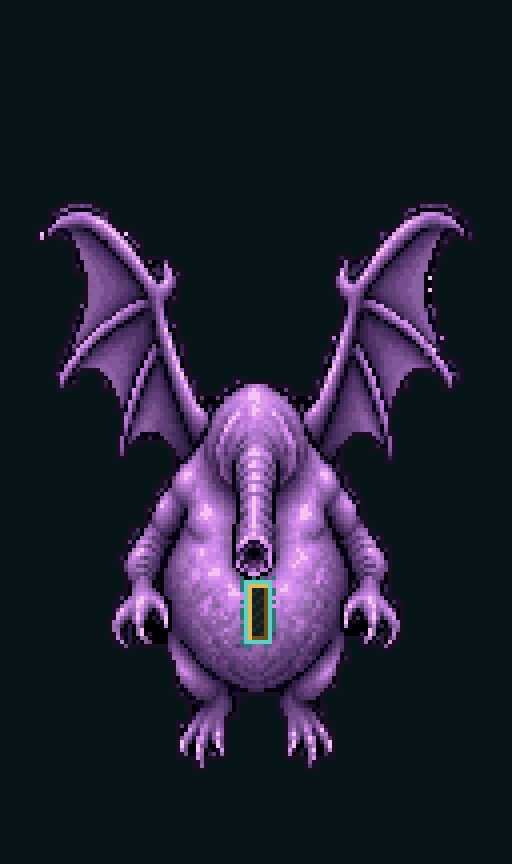
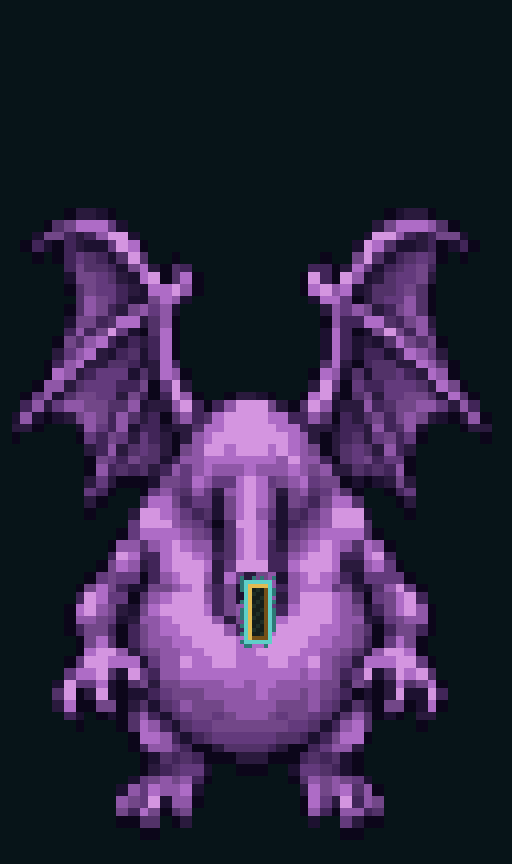
Rework Starvamp as deliberate low-color pixel art

diff --git a/tools/build_starvamp_sheets.py b/tools/build_starvamp_sheets.py
@@ -1,8 +1,7 @@
 """Build Starvamp's slow bat wingbeat and shared-card cast sheets."""
 
-from collections import deque
 from pathlib import Path
-from PIL import Image, ImageDraw, ImageFilter
+from PIL import Image
 
 
 ROOT = Path(__file__).resolve().parents[1]
@@ -10,53 +9,35 @@ PIXELS = ROOT / "art/pixel/enemies_px"
 SOURCE = PIXELS / "source/starvamp"
 W, H, TOP, FRAMES, FIRE = 128, 168, 48, 15, 10
 INK = (25, 14, 34, 255)
+SOURCE_GRID = SOURCE / "starvamp_pixel_poses.png"
+POSE_CROPS = (
+    (0, 0, 548, 805),
+    (548, 0, 1095, 805),
+    (0, 805, 548, 1437),
+    (548, 805, 1095, 1437),
+)
 
 
-def cutout(image: Image.Image) -> Image.Image:
-    """Remove the generated black backdrop from all separated body parts."""
-    rgb = image.convert("RGB")
-    mask = Image.new("L", (W, H))
-    for y in range(H):
-        for x in range(W):
-            if max(rgb.getpixel((x, y))) >= 73:
-                mask.putpixel((x, y), 255)
-    # Keep wings, feet and tube mouth even where dark joints separate them.
-    # Close small gaps between membranes and their dark ribs.
-    mask = mask.filter(ImageFilter.MaxFilter(5)).filter(ImageFilter.MinFilter(5))
-    outside = {(x, y) for x in range(W) for y in (0, H - 1)}
-    outside.update((x, y) for y in range(H) for x in (0, W - 1))
-    seen = set(outside)
-    queue = deque(outside)
-    while queue:
-        x, y = queue.popleft()
-        for nx, ny in ((x - 1, y), (x + 1, y),
-                       (x, y - 1), (x, y + 1)):
-            if (0 <= nx < W and 0 <= ny < H and (nx, ny) not in seen
-                    and mask.getpixel((nx, ny)) == 0):
-                seen.add((nx, ny))
-                queue.append((nx, ny))
-    for y in range(H):
-        for x in range(W):
-            if (x, y) not in seen:
-                mask.putpixel((x, y), 255)
-    bordered = mask.filter(ImageFilter.MaxFilter(3))
-    result = rgb.convert("RGBA")
-    result.putalpha(bordered)
-    for y in range(H):
-        for x in range(W):
-            if bordered.getpixel((x, y)) and not mask.getpixel((x, y)):
-                result.putpixel((x, y), INK)
-    return result
-
-
-def native(name: str, height_scale: float = 1.0,
-           top_shift: int = 0) -> Image.Image:
-    original = Image.open(SOURCE / name).convert("RGB")
-    scaled_h = round(H * height_scale)
-    scaled = original.resize((112, scaled_h), Image.Resampling.NEAREST)
-    aligned = Image.new("RGB", (W, H), (0, 0, 0))
-    aligned.paste(scaled, (8, top_shift))
-    return cutout(aligned)
+def native(grid: Image.Image, crop: tuple[int, int, int, int]) -> Image.Image:
+    """Reduce a complete pose to a 48x63 drawing grid."""
+    panel = grid.crop(crop)
+    alpha = panel.getchannel("A").point(lambda value: 255 if value >= 128 else 0)
+    bounds = alpha.getbbox()
+    if bounds is None:
+        raise ValueError(f"Empty Starvamp pose: {crop}")
+    panel = panel.crop(bounds)
+    scale = min(45 / panel.width, 59 / panel.height)
+    width, height = round(panel.width * scale), round(panel.height * scale)
+    matte = Image.new("RGB", panel.size, INK[:3])
+    matte.paste(panel.convert("RGB"), mask=panel.getchannel("A"))
+    color = matte.resize((width, height), Image.Resampling.LANCZOS)
+    shape = panel.getchannel("A").resize((width, height), Image.Resampling.LANCZOS)
+    shape = shape.point(lambda value: 255 if value >= 120 else 0)
+    sprite = color.convert("RGBA")
+    sprite.putalpha(shape)
+    tiny = Image.new("RGBA", (48, 63))
+    tiny.alpha_composite(sprite, ((48 - width) // 2, 63 - height - 2))
+    return tiny
 
 
 def palette_for(images: list[Image.Image]) -> Image.Image:
@@ -66,7 +47,7 @@ def palette_for(images: list[Image.Image]) -> Image.Image:
                        in image.get_flattened_data() if a)
     samples = Image.new("RGB", (len(visible), 1))
     samples.putdata(visible)
-    return samples.quantize(colors=36, method=Image.Quantize.MEDIANCUT)
+    return samples.quantize(colors=10, method=Image.Quantize.MEDIANCUT)
 
 
 def palette_map(image: Image.Image, palette: Image.Image) -> Image.Image:
@@ -93,15 +74,14 @@ def effect(frame: int, cards: Image.Image) -> Image.Image:
 
 
 def main() -> None:
-    # The high-wing body dips; the downstroke lifts the whole body.
-    # Complete poses preserve membrane shading and shoulder attachment.
-    sources = [native("wings_mid.png"),
-               native("wings_high.png", 1.00, -7),
-               native("wings_low.png"),
-               native("cast_fold.png")]
+    # Complete poses preserve the wing membranes and shoulder attachment.
+    # Ten shared colors on a 48x63 grid keep the body visibly pixelated.
+    grid = Image.open(SOURCE_GRID).convert("RGBA")
+    sources = [native(grid, crop) for crop in POSE_CROPS]
     palette = palette_for(sources)
     mid, high, low, fold = [
-        palette_map(source, palette) for source in sources]
+        palette_map(source, palette).resize((W, H), Image.Resampling.NEAREST)
+        for source in sources]
     for name, pose in zip(("wings_mid", "wings_high", "wings_low",
                            "cast_fold"), (mid, high, low, fold)):
         pose.save(SOURCE / f"{name}_native.png")
